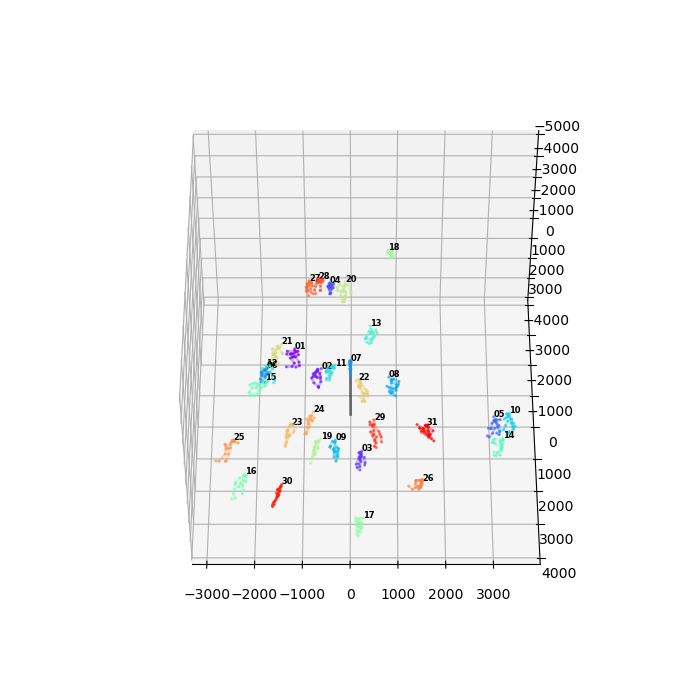
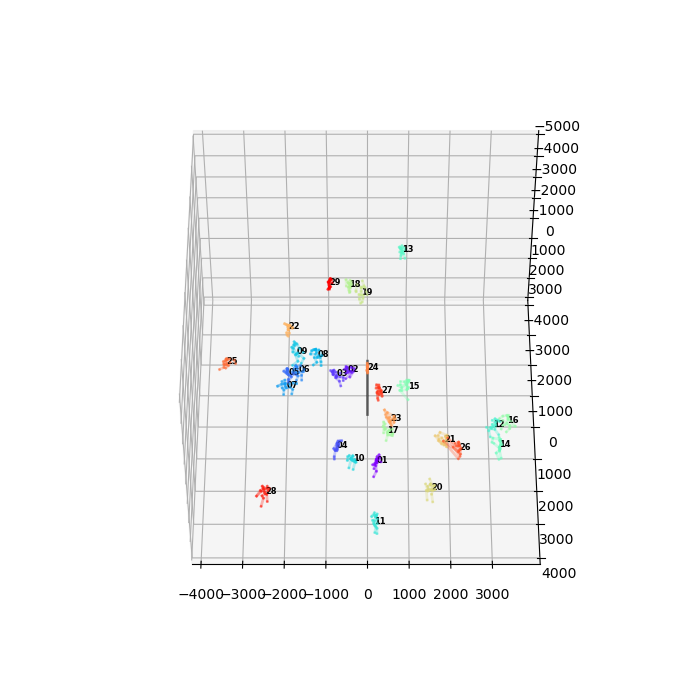
yolov5m demo complete

diff --git a/demo/demo.py b/demo/demo.py
@@ -10,6 +10,7 @@ import torch
 from human_detection.api import Detector
 from human_detection.fisheye_utills import FisheyeUtills as FU
 from pose_estimation.pose_estimator import PoseEstimatorV2 as PE
+sys.path.insert(0, 'human_detection/')
 
 # should open image first
 img = Image.open('demo/exhibition.jpg')
@@ -52,29 +53,35 @@ for i, center in enumerate(detections[:,:2]):
     ax.set_xticklabels([])
     ax.set_yticklabels([])
 
-plt.savefig('./output/original.png')
-
+plt.savefig('demo/output/original.png')
 patches, sphericals, k_values = fisheye_utills.get_tangent_patch(uvwha,
                                                              visualize=False,
                                                              detectnet=True)
 
-
 pose_estimator = PE()
 poses = []
-for i, patch in enumerate(patches):
-    p = patch.permute(1,2,0).numpy() * 255
-    poses.append(pose_estimator.forward(p, k_values[i]))
-    
+# for i, patch in enumerate(patches):
+#     p = patch.permute(1,2,0).cpu().numpy() * 255
+#     poses.append(pose_estimator.forward(p, k_values[i]))
+patches *= 255
+patches = pose_estimator.transform(patches)
+poses = pose_estimator.batch_forward(patches, k_values)
+# poses = [poses[i, :,:] for i in range(poses.shape[0])]
 # patch image pixel to virtual sphere
 shperical_poses = []
 for i, p in enumerate(poses):
-    if p.size > 0:
-        def patch2sphere(row):
-            lon, lat = sphericals[i][:, int(row[1]), int(row[0])]
-            return fisheye_utills.sphere2cartesian(lon=lon, lat=lat, depth=row[-1])
-        shperical_poses.append(np.apply_along_axis(patch2sphere, 1, p))
+    # if p.size > 0:
+    def patch2sphere(row):
+        # lon, lat = sphericals[i][:, int(row[1]), int(row[0])]
+        lon, lat = sphericals[i][int(row[1]), int(row[0]), :]
+        return fisheye_utills.sphere2cartesian(lon=lon, lat=lat, depth=row[-1]).cpu().numpy()
+    p = p.cpu().numpy()
+    shperical_poses.append(np.apply_along_axis(patch2sphere, 1, p))
         
-skeleton = ((0, 16), (16, 1), (1, 15), (15, 14), (14, 8), (14, 11), (8, 9), (9, 10), (10, 19), (11, 12), (12, 13), (13, 20), (1, 2), (2, 3), (3, 4), (4, 17), (1, 5), (5, 6), (6, 7), (7, 18))
+# skeleton = ((0, 16), (16, 1), (1, 15), (15, 14), (14, 8), (14, 11), (8, 9), (9, 10), (10, 19), (11, 12), (12, 13), (13, 20), (1, 2), (2, 3), (3, 4), (4, 17), (1, 5), (5, 6), (6, 7), (7, 18))
+skeleton = (
+    (0, 7), (7, 8), (8, 9), (9, 10), (8, 11), (11, 12), (12, 13), (8, 14), (14, 15), (15, 16), (0, 1), (1, 2), (2, 3),
+    (0, 4), (4, 5), (5, 6))
 colors = cm.rainbow(np.linspace(0, 1, len(shperical_poses)))
 
 fig = plt.figure(figsize=(7,7))
@@ -95,7 +102,7 @@ for i, p in enumerate(shperical_poses):
                     (p[sk[0],2], p[sk[1],2]),
                     color=colors[i], linewidth=2, alpha=0.3)
 
-plt.savefig('./output/3d_plot.png')
+plt.savefig('demo/output/3d_plot.png')
 
 ncols = int(np.round(np.sqrt(len(patches))))
 nrows = len(patches)//ncols + 1
@@ -106,7 +113,7 @@ for row in range(nrows):
         idx = row * ncols + col
         if idx < len(patches):
             axes[row, col].set_title(f'{idx+1:02d}. {poses[idx][0,-1]/1000:.1f}m')
-            axes[row, col].imshow(patches[idx].permute(1,2,0))
+            axes[row, col].imshow(patches[idx].permute(1,2,0).cpu())
             # axes[row, col].scatter(poses[idx][:,0], poses[idx][:,1], color=colors[idx], alpha=0.3)
             axes[row, col].set_xticks([])
             axes[row, col].set_yticks([])
@@ -121,4 +128,4 @@ for row in range(nrows):
             axes[row, col].remove()
             
 plt.tight_layout()
-plt.savefig('./output/patches.png')
+plt.savefig('demo/output/patches.png')

diff --git a/human_detection/models/rapid.py b/human_detection/models/rapid.py
@@ -73,7 +73,7 @@ class RAPiD(nn.Module):
             backbone_coco_path = 'human_detection/weights/yolov5m_backbone.pth'  # yolov5n6.pt / yolov5n6.pt / yolov5s.pt
             if os.path.exists(backbone_coco_path):
                 pretrained = torch.load(backbone_coco_path)
-                self.backbone = models.backbones.yolov5(pretrained.yaml)
+                self.backbone = human_detection.models.backbones.yolov5(pretrained.yaml)
                 csd = pretrained.state_dict()  # checkpoint state_dict as FP32
                 csd = {k: v for k, v in csd.items() if k in self.backbone.state_dict() and v.shape == self.backbone.state_dict()[k].shape}  # intersect
                 self.backbone.load_state_dict(csd, strict=False)  # load
@@ -105,7 +105,7 @@ class RAPiD(nn.Module):
             chS, chM, chL = 128, 256, 512
         elif backbone in {'res50','res101'}:
             chS, chM, chL = 512, 1024, 2048
-        elif backbone in {'yolov5n', 'yolov5s', 'yolov5x'}:
+        elif backbone in {'yolov5n', 'yolov5s','yolov5m','yolov5x'}:
             chS, chM, chL = np.array(np.ceil(np.array((256, 512, 1024)) * pretrained.yaml['width_multiple'] /8)*8, dtype=np.int32)
         
         

diff --git a/human_detection/api.py b/human_detection/api.py
@@ -69,11 +69,13 @@ class Detector():
             visualize: bool, if True, plt.show the image with bbox visualization. 
                 default: False
         '''
-        assert 'img_path' in kwargs or 'img' in kwargs
-        if 'img' in kwargs:
-            img = kwargs.pop('img')
-        else:
-            Image.open(kwargs['img_path'])
+        assert 'img_path' in kwargs or 'pil_img' in kwargs
+        img = kwargs.pop('pil_img', None)
+        # img = kwargs.pop('pil_img', None) or Image.open(kwargs['img_path'])
+        # if 'img' in kwargs:
+        #     img = kwargs.pop('img')
+        # else:
+        #     Image.open(kwargs['img_path'])
 
         detections = self._predict_img(img, **kwargs)
 

diff --git a/pose_estimation/pose_estimator.py b/pose_estimation/pose_estimator.py
@@ -48,6 +48,7 @@ class PoseEstimatorV2:
                                 z is depth of human detected in mm
         '''
         # assert image_patch.shape == (256, 256, 3), 'image_patch shape is not equal to (256, 256, 3). Got {}'.format(image_patch.shape)
+        
         assert image_patch.dtype == torch.float32, 'image_patch dtype must be torch.float32. Got {}'.format(image_patch.dtype)
         with torch.no_grad():
             image_patch = self.transform(image_patch)

diff --git a/human_detection/detector.py b/human_detection/detector.py
@@ -12,7 +12,7 @@ class DetectNet:
 
     def detect(self, img):
         img = cv2.cvtColor(img, cv2.COLOR_BGR2RGB)
-        detections = self.model.detect_one(img=img,
+        detections = self.model.detect_one(pil_img=img,
                                       visualize=False,
                                       input_size=608,#1024,
                                       conf_thres=0.4,
